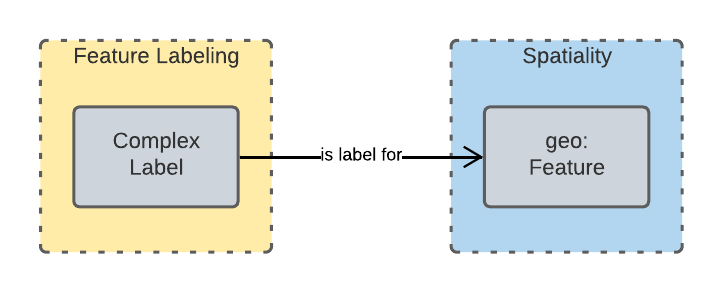
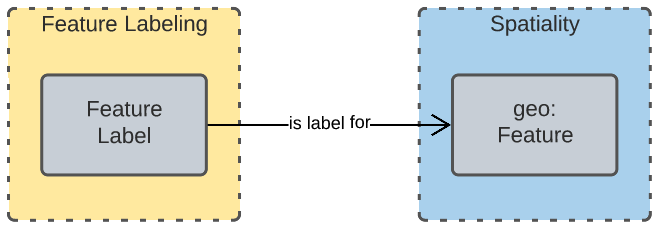
Deploying to gh-pages from  @ b0bb5c274b82b2215a8797a2af79d8cbb6871848 🚀

diff --git a/supermodel.html b/supermodel.html
@@ -466,6 +466,16 @@ body.book #toc,body.book #preamble,body.book h1.sect0,body.book .sect1>h2{page-b
 <div id="content">
 <div id="preamble">
 <div class="sectionbody">
+<div class="imageblock center text-center">
+<div class="content">
+<img src="https://nicholascar.com/qsi-supermodel/images/models.png" alt="models" width="700">
+</div>
+</div>
+<div class="imageblock center text-center">
+<div class="content">
+<img src="https://nicholascar.com/qsi-supermodel/images/level-2.png" alt="level 2" width="500">
+</div>
+</div>
 <div class="paragraph">
 <p>This is an overarching model - a Supermodel - used to integrate multiple, individual, models together for use within a particular scenario.</p>
 </div>
@@ -517,7 +527,7 @@ body.book #toc,body.book #preamble,body.book h1.sect0,body.book .sect1>h2{page-b
 </div>
 </li>
 <li>
-<p><code>FeatureLabel</code> - Annotations applied to a <code>Feature</code>. Specialised kinds of FeatureLabel are expected to be used, such as <code>Address</code> or <code>PlaceName</code></p>
+<p><code>FeatureLabel</code> - An annotation applied to a <code>Feature</code>. Specialised kinds of FeatureLabel are expected to be used, such as <code>Address</code> or <code>PlaceName</code></p>
 <div class="ulist">
 <ul>
 <li>
@@ -540,6 +550,48 @@ body.book #toc,body.book #preamble,body.book h1.sect0,body.book .sect1>h2{page-b
 </div>
 <div class="title">Figure 1. Key for OWL diagram figures</div>
 </div>
+<div class="paragraph">
+<p>OWL modelling and the RDF data that is made according to it make extensive use of namespaces which are globally-unique names based on Internet web addresses. The following namespaces are used in this document:</p>
+</div>
+<table class="tableblock frame-all grid-all stripes-even stretch">
+<colgroup>
+<col style="width: 10%;">
+<col style="width: 50%;">
+<col style="width: 40%;">
+</colgroup>
+<thead>
+<tr>
+<th class="tableblock halign-left valign-top">Prefix</th>
+<th class="tableblock halign-left valign-top">Namespace</th>
+<th class="tableblock halign-left valign-top">Note</th>
+</tr>
+</thead>
+<tbody>
+<tr>
+<td class="tableblock halign-left valign-top"><p class="tableblock"><code>bb</code></p></td>
+<td class="tableblock halign-left valign-top"><p class="tableblock"><code>https://w3id.org/profile/qsi-supermodel/backbone/</code></p></td>
+<td class="tableblock halign-left valign-top"><p class="tableblock">The namespace for this Supermodel&#8217;s Backbone Model</p></td>
+</tr>
+<tr>
+<td class="tableblock halign-left valign-top"><p class="tableblock"><code>ex</code></p></td>
+<td class="tableblock halign-left valign-top"><p class="tableblock"><code>http://example.com/</code></p></td>
+<td class="tableblock halign-left valign-top"><p class="tableblock">An example namespace</p></td>
+</tr>
+<tr>
+<td class="tableblock halign-left valign-top"><p class="tableblock"><code>geo</code></p></td>
+<td class="tableblock halign-left valign-top"><p class="tableblock"><code>http://www.opengis.net/ont/geosparql#</code></p></td>
+<td class="tableblock halign-left valign-top"><p class="tableblock">The GeoSAPRQL Ontology&#8217;s namespace</p></td>
+</tr>
+<tr>
+<td class="tableblock halign-left valign-top"><p class="tableblock"><code>rdfs</code></p></td>
+<td class="tableblock halign-left valign-top"><p class="tableblock"><code>http://www.w3.org/2000/01/rdf-schema#</code></p></td>
+<td class="tableblock halign-left valign-top"><p class="tableblock">The namespace of the fundamental RDF Schema model used for OWL mododelling</p></td>
+</tr>
+</tbody>
+</table>
+<div class="paragraph">
+<p>In its definion section below, <a href="#FeatureLabel">Feature Label</a> is indicated as beeing authoritifely identified with the prefixed IRI (web identifier) <code>bb:FeatureLabel</code> which, expanded using the table above is <code><a href="https://w3id.org/profile/qsi-supermodel/backbone/FeatureLabel" class="bare">https://w3id.org/profile/qsi-supermodel/backbone/FeatureLabel</a></code> which can be clicked on to retieve it&#8217;s formal definition.</p>
+</div>
 </div>
 </div>
 </div>
@@ -547,7 +599,7 @@ body.book #toc,body.book #preamble,body.book h1.sect0,body.book .sect1>h2{page-b
 <h2 id="_models"><a class="anchor" href="#_models"></a>2. Models</h2>
 <div class="sectionbody">
 <div class="paragraph">
-<p>This Supermodel implements a "Backbone Model" which contains central elements from the various Component Models and acts as the integrative model between them The Backbone Model and Component Models together make the Supermodel.</p>
+<p>This Supermodel implements a "Backbone Model" which contains central elements from the various Component Models and some additional modelling "glue" to allow it to act as the integrative model between them. The Backbone Model and Component Models together make the Supermodel.</p>
 </div>
 <div id="fig-models" class="imageblock">
 <div class="content">
@@ -558,7 +610,7 @@ body.book #toc,body.book #preamble,body.book h1.sect0,body.book .sect1>h2{page-b
 <div class="sect2">
 <h3 id="_backbone_model"><a class="anchor" href="#_backbone_model"></a>2.1. Backbone Model</h3>
 <div class="paragraph">
-<p>The Backbone Model for this Queensland Spatial Information scenario overviewed in <a href="#fig-backbone">Figure 3</a>. The formal characterisation of the model in OWL is given in the file <a href="https://nicholascar.com/qsi-supermodel/backbone.ttl">backbone.ttl</a>.</p>
+<p>The Backbone Model for this Queensland Spatial Information scenario overviewed in <a href="#fig-backbone">Figure 3</a>. The elements of the Backbone Model are described next and the formal characterisation of the model in OWL is given in the machein-readable file <a href="https://nicholascar.com/qsi-supermodel/backbone.ttl">backbone.ttl</a>.</p>
 </div>
 <div id="fig-backbone" class="imageblock">
 <div class="content">
@@ -567,7 +619,7 @@ body.book #toc,body.book #preamble,body.book h1.sect0,body.book .sect1>h2{page-b
 <div class="title">Figure 3. An OWL diagram of the Backbone Model overview. Uncertain objects are shown in light red.</div>
 </div>
 <div class="paragraph">
-<p>Figure 2 indicates two main conceptual domains (the yellow and blue) centered on <code>Feature Labels</code> (defined here) and <code>geo:Feature</code> s which are "Anything spatial (being or having a shape, position or an extent)." <a href="#GEO">[GEO]</a>. Feature Labels are any form of identifying information assigned to a Feature.</p>
+<p>Figure 2 indicates two main conceptual domains (the yellow and blue) centered on <code>Feature Labels</code> (defined here) and <code>geo:Feature</code> s which are "Anything spatial (being or having a shape, position or an extent)" <a href="#GEO">[GEO]</a>. Feature Labels are any form of identifying information assigned to a Feature <a href="#xxx">[xxx]</a>.</p>
 </div>
 <div class="paragraph">
 <p>The class hierharchy expressed in this Backbone Model (with sub class of arrows) indicates that:</p>
@@ -575,18 +627,138 @@ body.book #toc,body.book #preamble,body.book h1.sect0,body.book .sect1>h2{page-b
 <div class="ulist">
 <ul>
 <li>
-<p>Addresses, Administrative Areas and perhaps Titles are all forms of Feature Labels</p>
+<p><code>Address</code>, <code>AdministrativeArea</code> and perhaps <code>Title`</code> are all specialised forms of <code>FeatureLabel</code></p>
 </li>
 <li>
-<p>Place Names are a form of Address (a very simple one!)</p>
+<p><code>PlaceName</code> is a form of <code>Address</code> (a very simple one!)</p>
 </li>
 <li>
-<p>Places are Addressable Objects and Addressable Objects and Parcels are types of Feature</p>
+<p><code>Places</code> are a specialised form of <code>AddressableObject</code> and <code>AddressableObject</code> and <code>Parcel</code>, and others, are speciali types of <code>geo:Feature</code></p>
 </li>
 </ul>
 </div>
 <div class="paragraph">
 <p>The various Component Models (next) use these classes of object and imlplement many more specilised forms of them.</p>
+</div>
+<div class="sect3">
+<h4 id="_classes"><a class="anchor" href="#_classes"></a>2.1.1. Classes</h4>
+<div class="paragraph">
+<p>This Backbone Model only defines one class of object not already defined in the various Component models: <code>FeatureLabel</code>.</p>
+</div>
+<div class="sect4">
+<h5 id="FeatureLabel"><a class="anchor" href="#FeatureLabel"></a>Feature Label</h5>
+<table class="tableblock frame-all grid-all stripes-even stretch">
+<colgroup>
+<col style="width: 20%;">
+<col style="width: 80%;">
+</colgroup>
+<thead>
+<tr>
+<th class="tableblock halign-left valign-top">Property</th>
+<th class="tableblock halign-left valign-top">Value</th>
+</tr>
+</thead>
+<tbody>
+<tr>
+<td class="tableblock halign-left valign-top"><p class="tableblock">IRI</p></td>
+<td class="tableblock halign-left valign-top"><p class="tableblock"><code>bb:FeatureLabel</code></p></td>
+</tr>
+<tr>
+<td class="tableblock halign-left valign-top"><p class="tableblock">Preferred Label</p></td>
+<td class="tableblock halign-left valign-top"><p class="tableblock">Feature Label</p></td>
+</tr>
+<tr>
+<td class="tableblock halign-left valign-top"><p class="tableblock">Definition</p></td>
+<td class="tableblock halign-left valign-top"><p class="tableblock">An annotation applied to a <code>Feature</code>. Specialised kinds of FeatureLabel are expected to be used, such as <code>Address</code> or <code>PlaceName</code></p></td>
+</tr>
+<tr>
+<td class="tableblock halign-left valign-top"><p class="tableblock">Is Defined By</p></td>
+<td class="tableblock halign-left valign-top"><p class="tableblock"><a href="https://w3id.org/profile/qsi-supermodel/backbone">SQI Supermodel Backbone Model</a></p></td>
+</tr>
+<tr>
+<td class="tableblock halign-left valign-top"><p class="tableblock">Provenance</p></td>
+<td class="tableblock halign-left valign-top"><p class="tableblock">Derived from <a href="#ISO19160-1">[ISO19160-1]</a>'s <code>AddressLifecycle</code> class</p></td>
+</tr>
+<tr>
+<td class="tableblock halign-left valign-top"><p class="tableblock">Expected Properties</p></td>
+<td class="tableblock halign-left valign-top"><p class="tableblock"><a href="#isLabelFor">is label for</a></p></td>
+</tr>
+<tr>
+<td class="tableblock halign-left valign-top"><p class="tableblock">Example</p></td>
+<td class="tableblock halign-left valign-top"><div class="content"><div class="listingblock">
+<div class="content">
+<pre class="highlight"><code class="language-turtle" data-lang="turtle"># The Label "Mount Doom" is applied to Feature X
+ex:fl-01
+    a bb:FeatureLabel ;
+    rdfs:label "Mount Doom" ;
+    bb:isLabelFor ex:feature-x ;
+.
+
+ex:feature-x
+    a geo:Feature ;
+    ex:category ex:mountain ;
+.</code></pre>
+</div>
+</div></div></td>
+</tr>
+</tbody>
+</table>
+</div>
+</div>
+<div class="sect3">
+<h4 id="_properties"><a class="anchor" href="#_properties"></a>2.1.2. Properties</h4>
+<div class="paragraph">
+<p>This Backbone Model only defines one property not already defined in the various Component models: <code>isLabelFor</code>.</p>
+</div>
+<div class="sect4">
+<h5 id="_is_label_for"><a class="anchor" href="#_is_label_for"></a>is label for</h5>
+<table class="tableblock frame-all grid-all stripes-even stretch">
+<colgroup>
+<col style="width: 20%;">
+<col style="width: 80%;">
+</colgroup>
+<thead>
+<tr>
+<th class="tableblock halign-left valign-top">Property</th>
+<th class="tableblock halign-left valign-top">Value</th>
+</tr>
+</thead>
+<tbody>
+<tr>
+<td class="tableblock halign-left valign-top"><p class="tableblock">IRI</p></td>
+<td class="tableblock halign-left valign-top"><p class="tableblock"><code>bb:isLabelFor</code></p></td>
+</tr>
+<tr>
+<td class="tableblock halign-left valign-top"><p class="tableblock">Preferred Label</p></td>
+<td class="tableblock halign-left valign-top"><p class="tableblock">is label for</p></td>
+</tr>
+<tr>
+<td class="tableblock halign-left valign-top"><p class="tableblock">Definition</p></td>
+<td class="tableblock halign-left valign-top"><p class="tableblock">Indicates an an object that a <a href="#FeatureLabel"><code>FeatureLabel</code></a> is an annotation for</p></td>
+</tr>
+<tr>
+<td class="tableblock halign-left valign-top"><p class="tableblock">Is Defined By</p></td>
+<td class="tableblock halign-left valign-top"><p class="tableblock"><a href="https://w3id.org/profile/qsi-supermodel/backbone">SQI Supermodel Backbone Model</a></p></td>
+</tr>
+<tr>
+<td class="tableblock halign-left valign-top"><p class="tableblock">Sub property of</p></td>
+<td class="tableblock halign-left valign-top"><p class="tableblock"><code>rdfs:label</code></p></td>
+</tr>
+<tr>
+<td class="tableblock halign-left valign-top"><p class="tableblock">Domain</p></td>
+<td class="tableblock halign-left valign-top"><p class="tableblock"><a href="#FeatureLabel"><code>FeatureLabel</code></a></p></td>
+</tr>
+<tr>
+<td class="tableblock halign-left valign-top"><p class="tableblock">Range</p></td>
+<td class="tableblock halign-left valign-top"><p class="tableblock"><code>geo:Feature</code></p></td>
+</tr>
+<tr>
+<td class="tableblock halign-left valign-top"><p class="tableblock">Example</p></td>
+<td class="tableblock halign-left valign-top"><p class="tableblock"><em>see the example for <a href="#FeatureLabel">Feature Label</a></em></p></td>
+</tr>
+</tbody>
+</table>
+</div>
 </div>
 </div>
 <div class="sect2">
@@ -744,7 +916,7 @@ body.book #toc,body.book #preamble,body.book h1.sect0,body.book .sect1>h2{page-b
 </div>
 <div id="footer">
 <div id="footer-text">
-Last updated 2022-06-24 04:17:43 UTC
+Last updated 2022-06-24 05:03:49 UTC
 </div>
 </div>
 </body>

diff --git a/index.html b/index.html
@@ -605,7 +605,7 @@ body.book #toc,body.book #preamble,body.book h1.sect0,body.book .sect1>h2{page-b
 </div>
 <div id="footer">
 <div id="footer-text">
-Last updated 2022-06-24 04:17:43 UTC
+Last updated 2022-06-24 05:03:49 UTC
 </div>
 </div>
 </body>

diff --git a/requirements.html b/requirements.html
@@ -525,7 +525,7 @@ body.book #toc,body.book #preamble,body.book h1.sect0,body.book .sect1>h2{page-b
 </div>
 <div id="footer">
 <div id="footer-text">
-Last updated 2022-06-24 04:17:43 UTC
+Last updated 2022-06-24 05:03:49 UTC
 </div>
 </div>
 </body>
